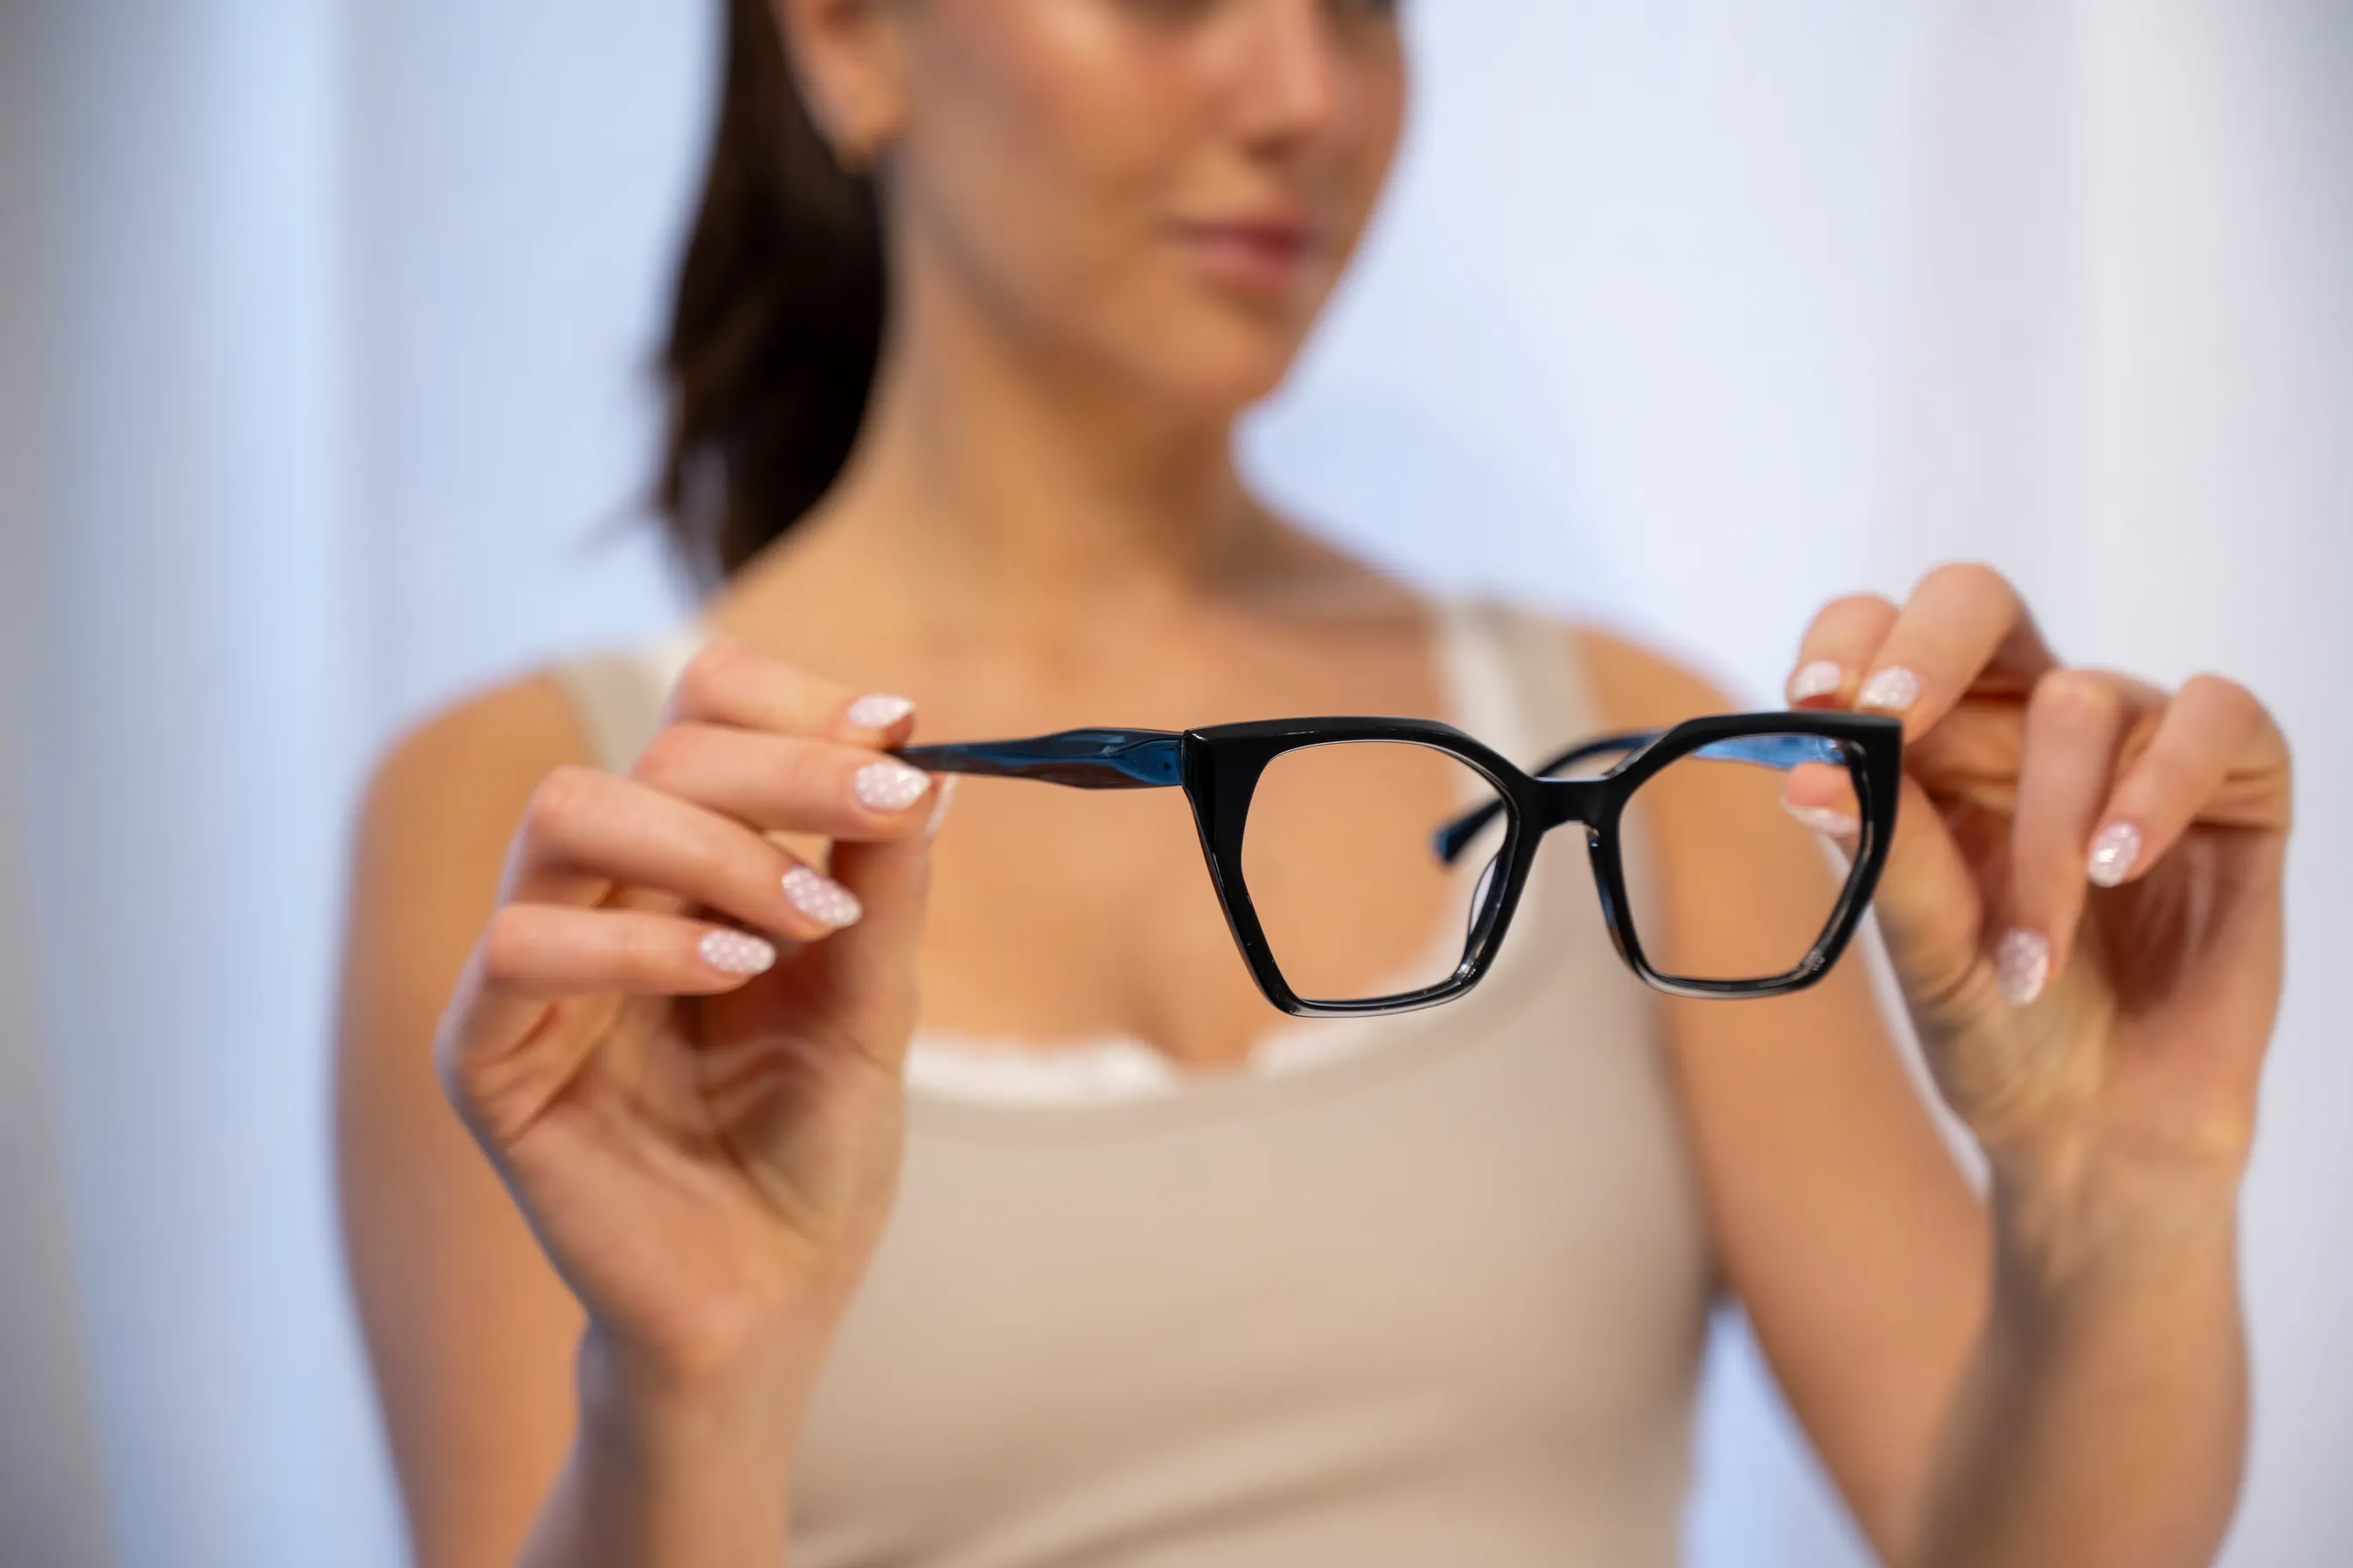
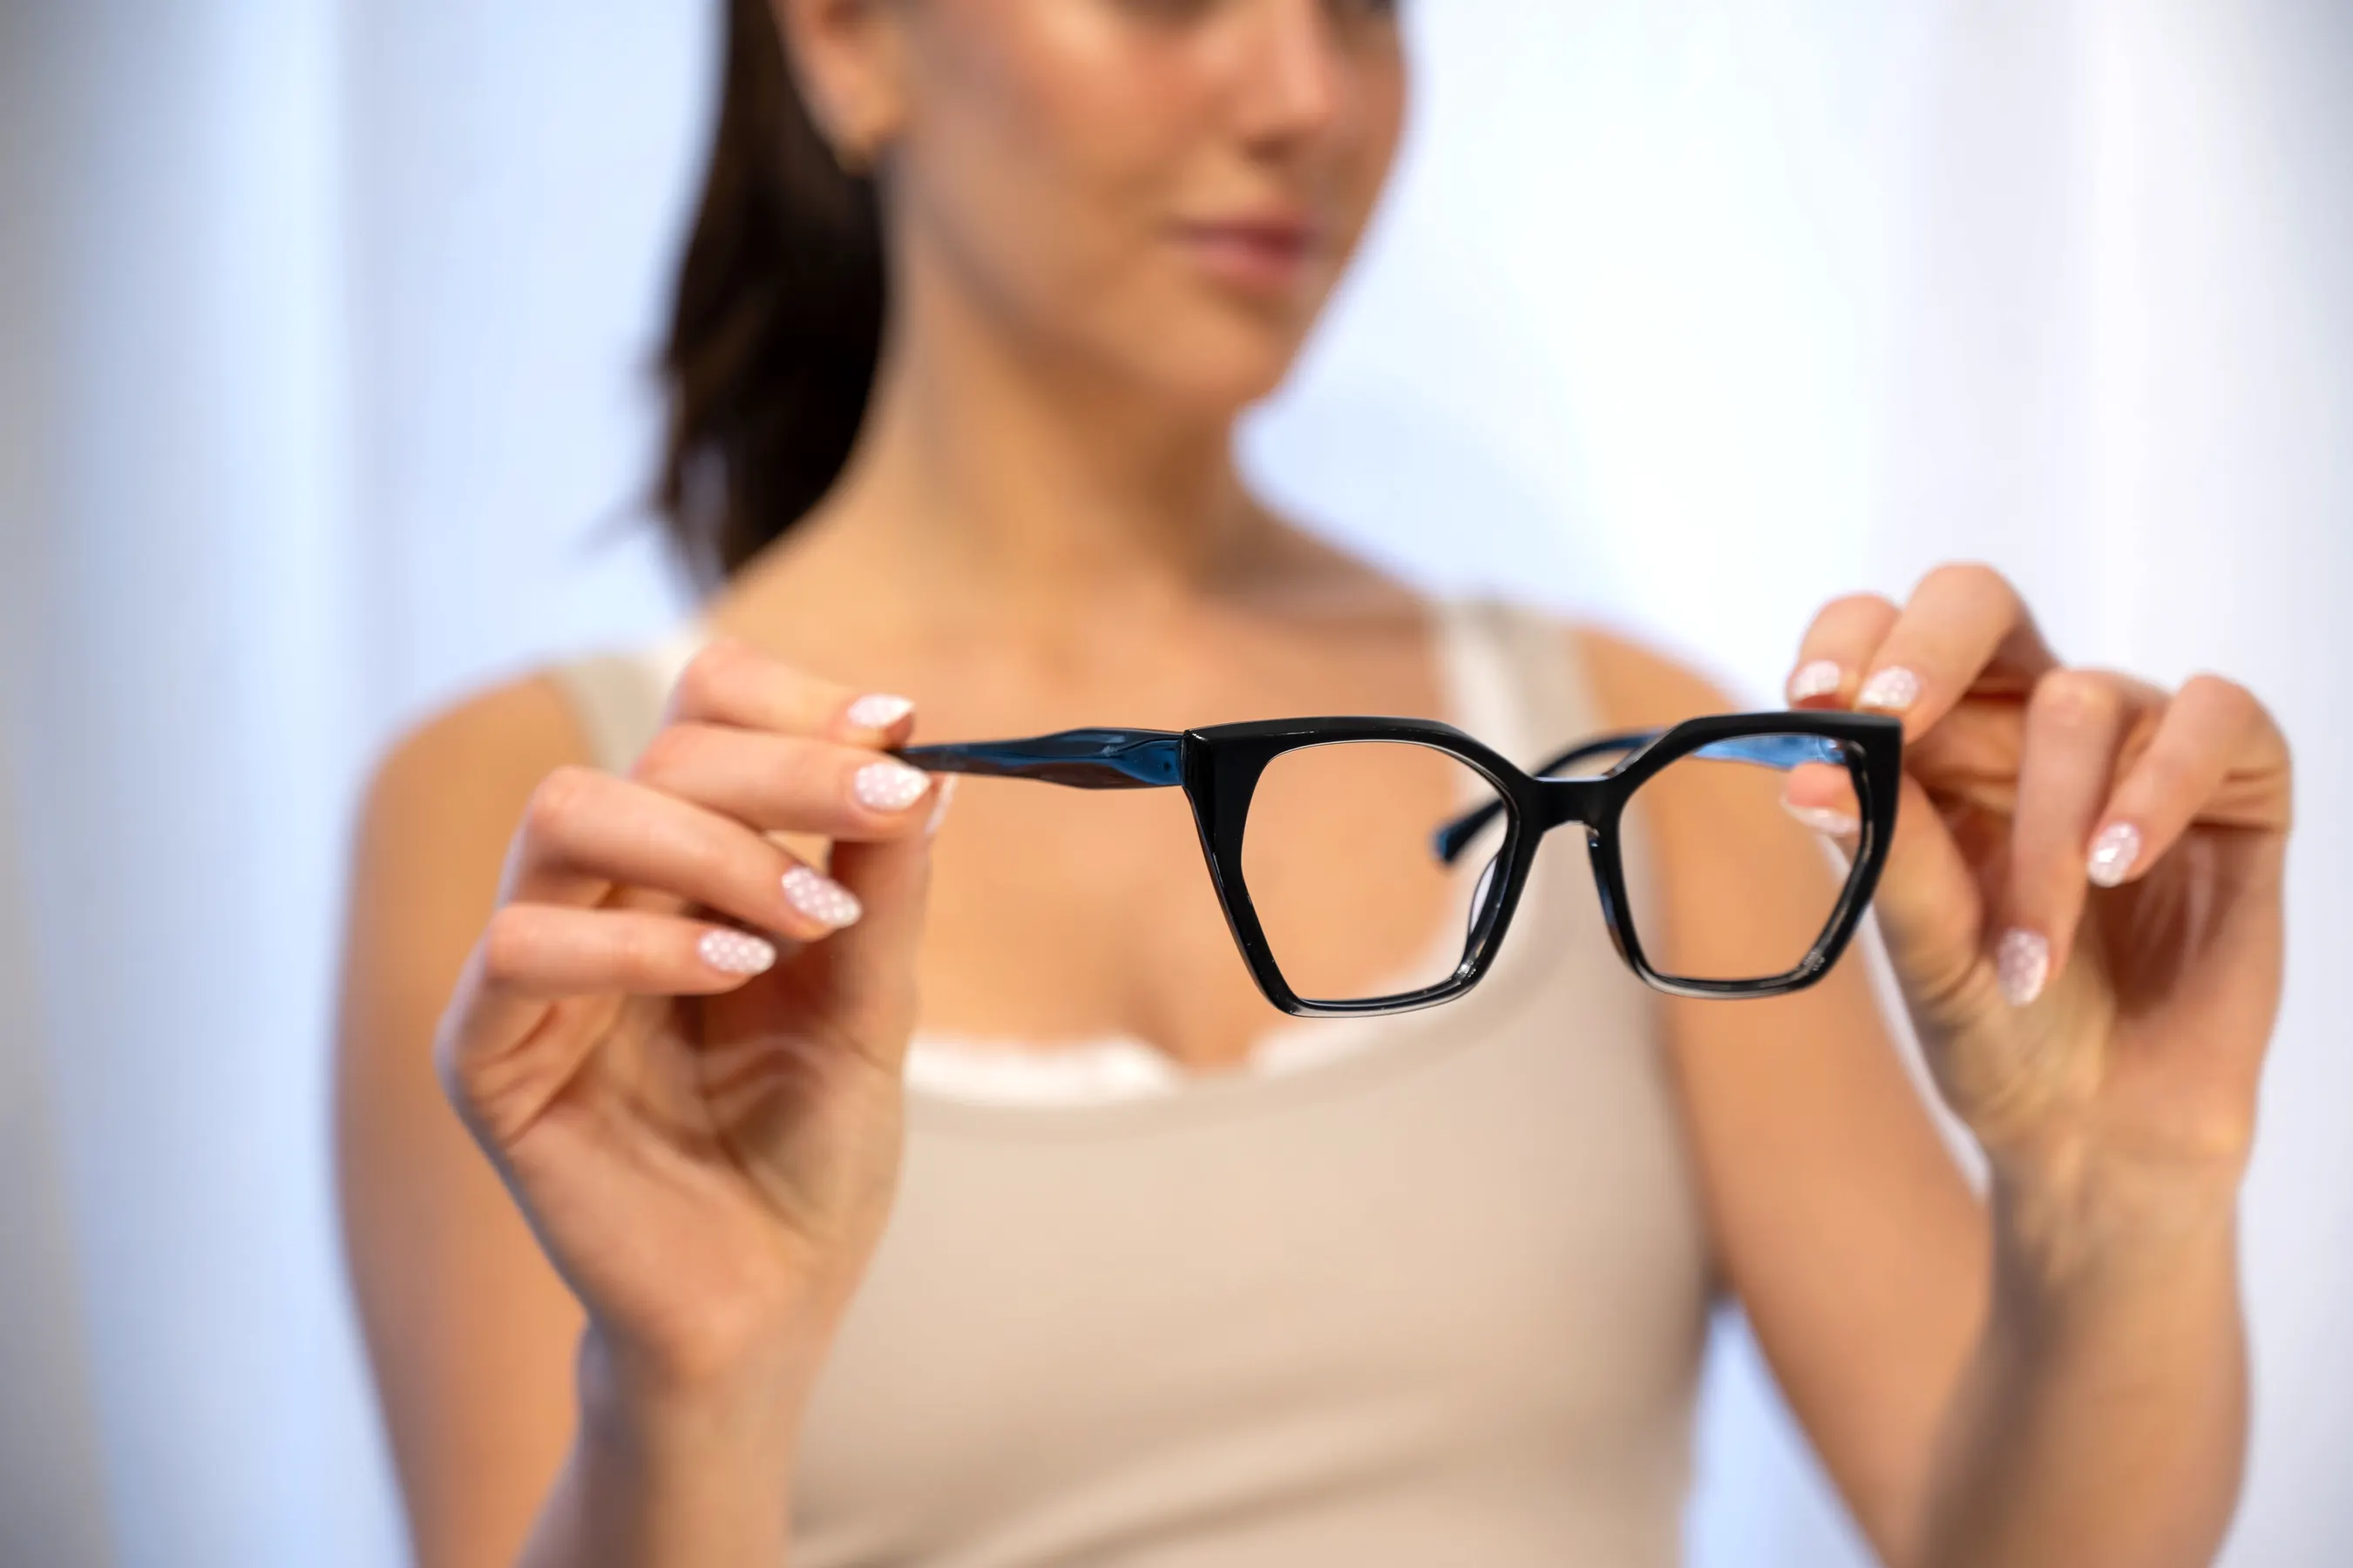
home carpetas: Receta con la Helena C4, luz pareja en las cuatro portadas y la cola de caballo tapada en Clip-on
Las portadas se generan con scripts/maintenance/home-carpetas/generar-portadas.mjs:
recorte desde el tope de la cabeza, rango de luz normalizado para que el fondo
llegue a blanco en todas, y parches puntuales fundidos con el fondo.

diff --git a/src/app/page.tsx b/src/app/page.tsx
@@ -91,7 +91,7 @@ export default async function Home({ searchParams }: { searchParams: Promise<Rec
       portada: "/images/home/carpetas/sol-vega-c1-frente.webp", portadaAlt: "/images/home/carpetas/sol-adhara-frente.webp", foco: "center top",
       cantidad: conteos?.sol ?? carouselData.sol.length, productos: conFoto(carouselData.sol) },
     { key: "receta", titulo: "Receta", bajada: "Armazones de autor para tus cristales. Medidos con el armazón puesto.", href: "/receta",
-      portada: "/images/home/carpetas/receta-helena-c3-frente.webp", portadaAlt: "/images/home/carpetas/receta-victoria-perfil.webp", foco: "center top",
+      portada: "/images/home/carpetas/receta-helena-c4-cerca.webp", portadaAlt: "/images/home/carpetas/receta-victoria-perfil.webp", foco: "center top",
       cantidad: conteos?.receta ?? carouselData.receta.length, productos: conFoto(carouselData.receta) },
     { key: "clipon", titulo: "Clip-on", bajada: "Un armazón, dos anteojos: receta de día y sol con el clip imantado.", href: "/clip-on",
       portada: "/images/home/carpetas/clipon-verona-frente.webp", portadaAlt: "/images/home/carpetas/clipon-monaco-manos.webp", foco: "center top",
